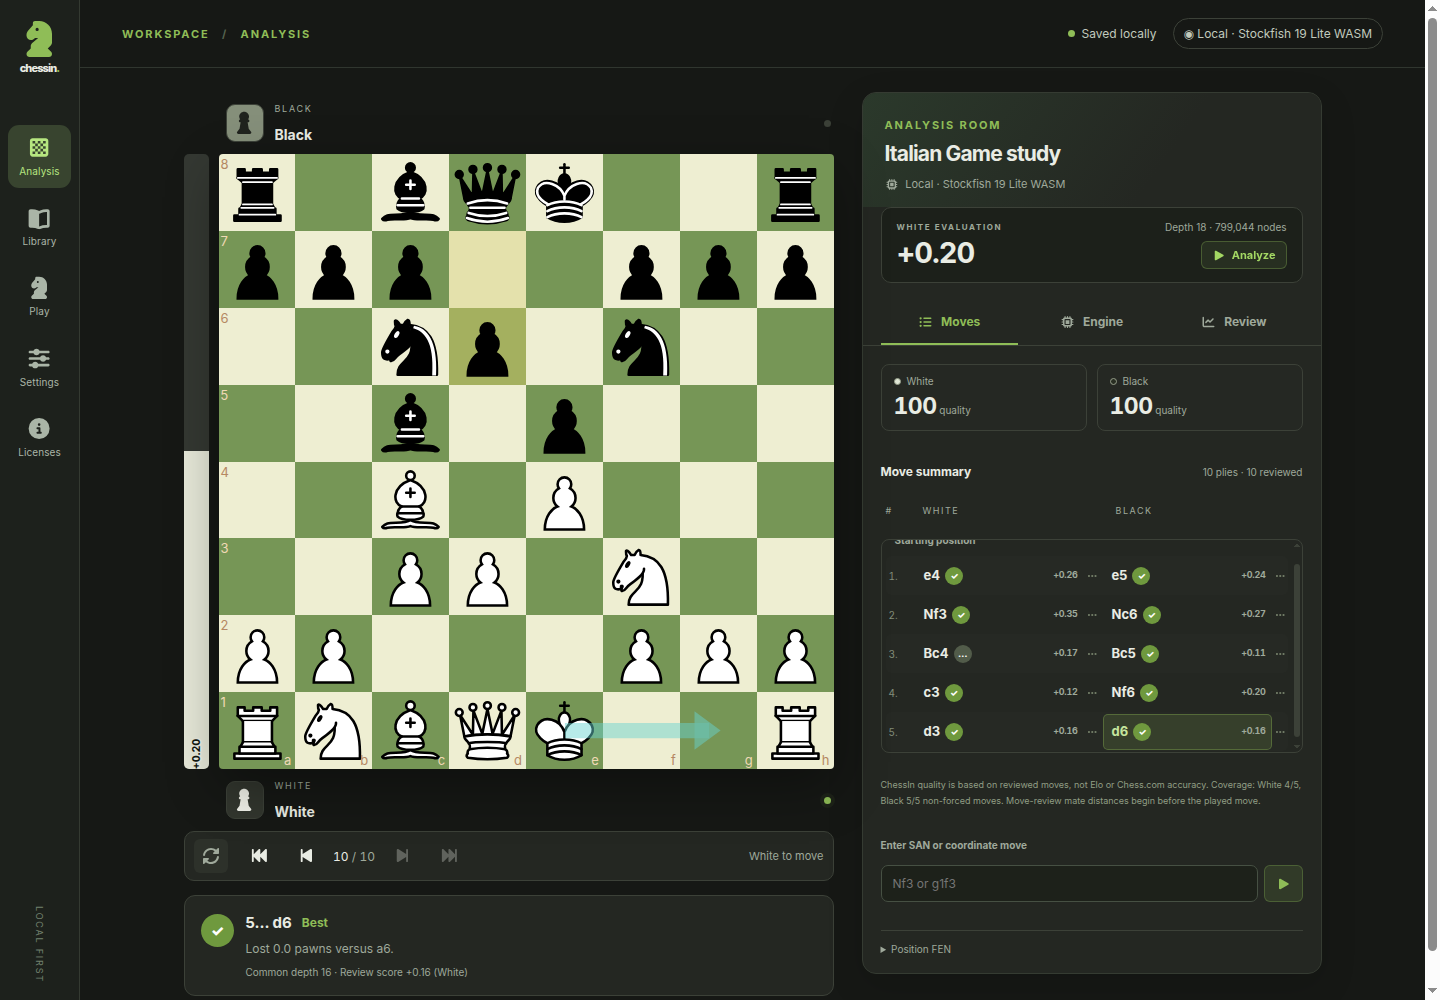
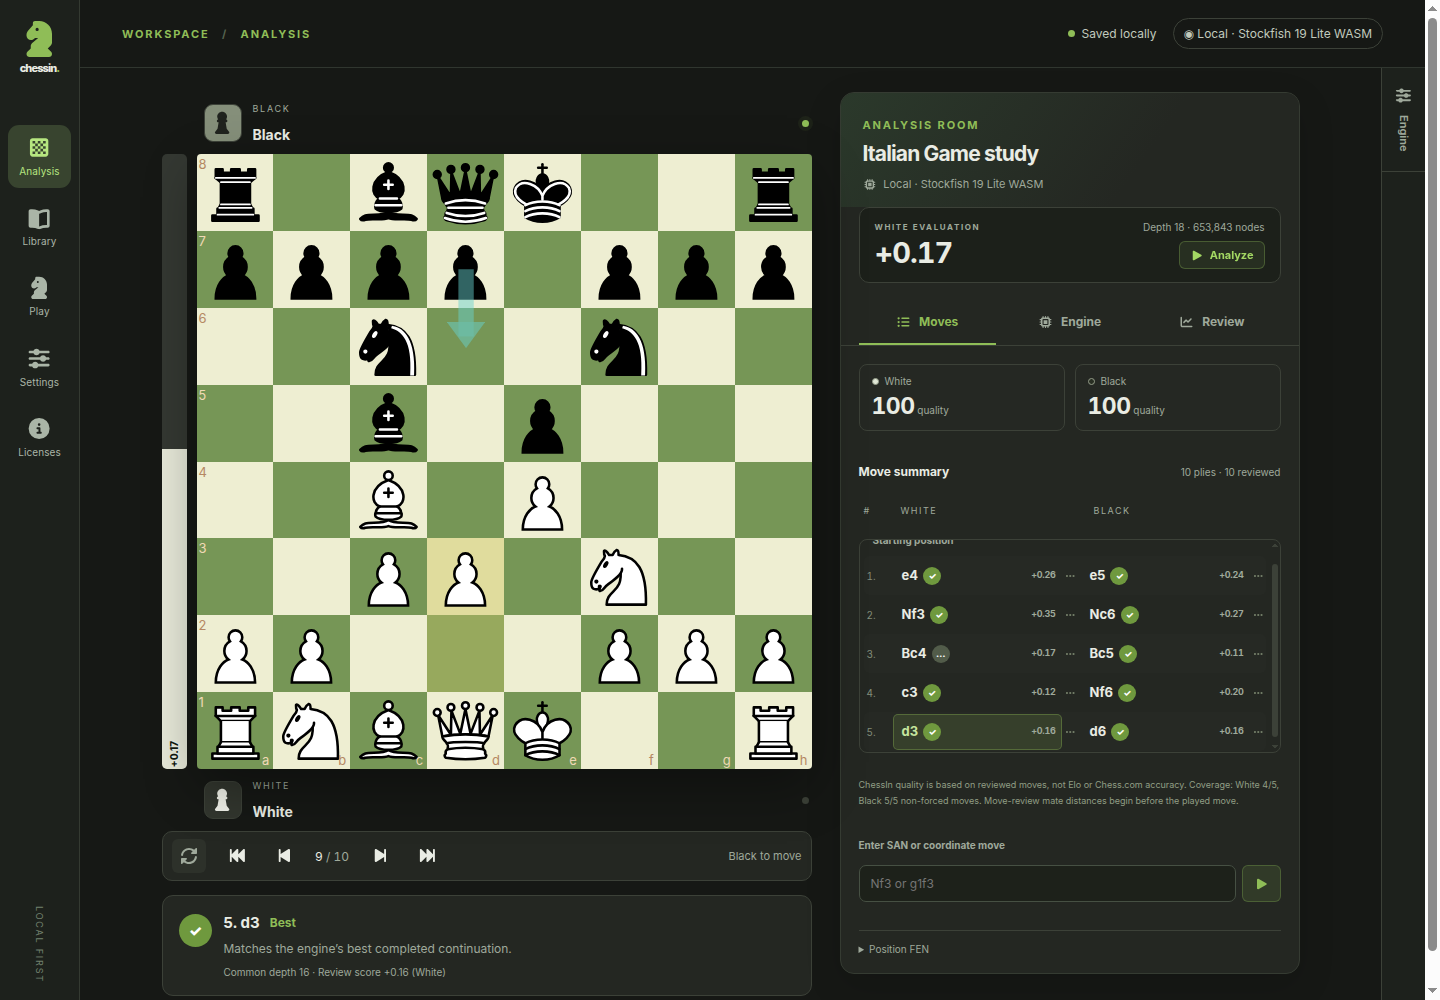
Move board engine preferences into a right-edge quick sidebar

diff --git a/apps/web/src/engine/QuickEngineSettings.tsx b/apps/web/src/engine/QuickEngineSettings.tsx
@@ -1,0 +1,60 @@
+import { useEffect, useId, useRef, useState } from 'react'
+import { FontAwesomeIcon } from '@fortawesome/react-fontawesome'
+import { faSliders, faXmark, faArrowRight, faMicrochip } from '@fortawesome/free-solid-svg-icons'
+import { useEngine } from './EngineContext'
+import './quick-engine.css'
+
+const depths = [8, 10, 12, 16, 18, 20, 24, 30]
+const times = [500, 1000, 1500, 3000, 5000, 10000, 30000]
+
+export function QuickEngineSettings({ disabled, onOpenSettings }: { disabled: boolean; onOpenSettings: () => void }) {
+  const engine = useEngine()
+  const id = useId()
+  const [open, setOpen] = useState(false)
+  const trigger = useRef<HTMLButtonElement>(null)
+  const close = useRef<HTMLButtonElement>(null)
+  const multiPv = engine.descriptor?.options.find(option => option.name.toLowerCase() === 'multipv')
+  const minLines = multiPv?.type === 'spin' ? Math.max(1, multiPv.min ?? 1) : 1
+  const maxLines = multiPv?.type === 'spin' ? Math.min(5, multiPv.max ?? 5, engine.remoteLimits?.maxMultiPv ?? 5) : 1
+
+  useEffect(() => {
+    if (!open) return
+    close.current?.focus({ preventScroll: true })
+    const escape = (event: KeyboardEvent) => {
+      if (event.key !== 'Escape') return
+      setOpen(false)
+      trigger.current?.focus({ preventScroll: true })
+    }
+    window.addEventListener('keydown', escape)
+    return () => window.removeEventListener('keydown', escape)
+  }, [open])
+
+  function setBound(key: 'depth' | 'moveTimeMs', raw: string, min: number, max: number) {
+    if (engine.limit.kind !== 'bounded') return
+    const value = raw === '' ? undefined : Number(raw)
+    if (value !== undefined && (!Number.isInteger(value) || value < min || value > max)) return
+    const next = { ...engine.limit, [key]: value }
+    if (next.depth === undefined && next.moveTimeMs === undefined && next.nodes === undefined) return
+    engine.setLimit(next)
+  }
+
+  return <aside className="quick-engine-rail" aria-label="Board quick settings">
+    <button ref={trigger} className="quick-engine-tab" aria-label="Quick engine settings" aria-expanded={open} aria-controls={id} onClick={() => setOpen(!open)}><FontAwesomeIcon icon={faSliders} /><span>Engine</span></button>
+    {open && <section id={id} className="quick-engine-drawer" aria-labelledby={`${id}-heading`}>
+      <header><div><span className="eyebrow">BOARD TOOLS</span><h2 id={`${id}-heading`}>Quick settings</h2></div><button ref={close} aria-label="Close quick settings" onClick={() => { setOpen(false); trigger.current?.focus() }}><FontAwesomeIcon icon={faXmark} /></button></header>
+      <div className="quick-engine-identity"><FontAwesomeIcon icon={faMicrochip} /><div><strong>{engine.descriptor?.name ?? 'Engine not initialized'}</strong><span>{engine.provider === 'local' ? 'On-device analysis' : 'Connected remote provider'} · Full strength</span></div></div>
+      <fieldset disabled={disabled}>
+        <legend>Analysis search</legend>
+        <label>Search mode<select value={engine.limit.kind} onChange={event => engine.setLimit(event.target.value === 'infinite' ? { kind: 'infinite' } : { kind: 'bounded', depth: 18, moveTimeMs: 5000 })}><option value="bounded">Depth / time limit</option><option value="infinite">Until I stop it</option>{engine.limit.kind === 'clock' && <option value="clock">Game clock</option>}</select></label>
+        {engine.limit.kind === 'bounded' && <>
+          <label>Depth<select value={engine.limit.depth ?? ''} onChange={event => setBound('depth', event.target.value, 1, 60)}><option value="" disabled={engine.limit.moveTimeMs === undefined && engine.limit.nodes === undefined}>No depth limit</option>{depths.map(depth => <option key={depth} value={depth}>{depth} plies</option>)}{engine.limit.depth !== undefined && !depths.includes(engine.limit.depth) && <option value={engine.limit.depth}>{engine.limit.depth} plies · custom</option>}</select></label>
+          <label>Time limit<select value={engine.limit.moveTimeMs ?? ''} onChange={event => setBound('moveTimeMs', event.target.value, 100, 300000)}><option value="" disabled={engine.limit.depth === undefined && engine.limit.nodes === undefined}>No time limit</option>{times.map(time => <option key={time} value={time}>{time / 1000} seconds</option>)}{engine.limit.moveTimeMs !== undefined && !times.includes(engine.limit.moveTimeMs) && <option value={engine.limit.moveTimeMs}>{engine.limit.moveTimeMs / 1000} seconds · custom</option>}</select><small>Stops at the first reached limit.</small></label>
+          {engine.limit.nodes !== undefined && <p className="quick-engine-note">Node limit: {engine.limit.nodes.toLocaleString()}. Edit it in full Settings.</p>}
+        </>}
+        {multiPv?.type === 'spin' && maxLines >= minLines && <label>Engine lines<select value={engine.settings.multiPv ?? minLines} disabled={minLines === maxLines} onChange={event => engine.setSettings({ ...engine.settings, multiPv: Number(event.target.value) })}>{Array.from({ length: maxLines - minLines + 1 }, (_, index) => minLines + index).map(count => <option key={count} value={count}>{count} {count === 1 ? 'line' : 'lines'}</option>)}</select></label>}
+      </fieldset>
+      <p className="quick-engine-note">{disabled ? 'Review has its own search settings. Switch to Moves or Engine to change analysis preferences.' : engine.limit.kind === 'infinite' ? 'Continuous analysis uses more CPU and battery. Stop it from the board.' : 'Changes apply to the next search, or restart analysis if it is running.'}</p>
+      <footer><p>Downloads, hardware and connections live in Settings—not on your board.</p><button onClick={onOpenSettings}>Open full Settings <FontAwesomeIcon icon={faArrowRight} /></button></footer>
+    </section>}
+  </aside>
+}

diff --git a/apps/web/src/features/analysis/AnalysisPage.tsx b/apps/web/src/features/analysis/AnalysisPage.tsx
@@ -1,12 +1,12 @@
 import { useEffect, useId, useMemo, useRef, useState, type ReactNode } from 'react'
 import { FontAwesomeIcon } from '@fortawesome/react-fontawesome'
-import { faBackwardFast, faBackwardStep, faForwardStep, faForwardFast, faRotate, faListUl, faMicrochip, faChartLine, faPlay, faStop, faSliders, faEllipsis, faArrowUp, faTrashCan, faChessPawn, faCopy } from '@fortawesome/free-solid-svg-icons'
+import { faBackwardFast, faBackwardStep, faForwardStep, faForwardFast, faRotate, faListUl, faMicrochip, faChartLine, faPlay, faStop, faEllipsis, faArrowUp, faTrashCan, faChessPawn, faCopy } from '@fortawesome/free-solid-svg-icons'
 import { appendMove, deleteVariation, exportFen, getPosition, promoteVariation, reconstruct, selectNode, type GameDocument, type GameNode, type PositionSpec } from '@chessin/core/game'
 import type { EngineEvent, EngineScore } from '@chessin/core/engine'
 import { Chess } from 'chess.js'
 import { AnalysisBoard } from '../../components/AnalysisBoard'
 import { useEngine } from '../../engine/EngineContext'
-import { EngineSettingsPanel } from '../../engine/EngineSettingsPanel'
+import { QuickEngineSettings } from '../../engine/QuickEngineSettings'
 import { mainlineNodes, reviewSummary, type ReviewMove } from '@chessin/core/review'
 import { moveSymbols } from '../../components/move-quality'
 import './analysis.css'
@@ -20,6 +20,7 @@ const analysisTabs = [
 export interface AnalysisPageProps {
   game: GameDocument
   onChange: (game: GameDocument) => void
+  onOpenSettings: () => void
   reviewPanel?: ReactNode
   grades?: Record<string, ReviewMove>
   initialPane?: 'moves' | 'engine' | 'review'
@@ -63,7 +64,7 @@ function captured(chess: Chess, rootFen: string): { white: string; black: string
   return { white, black, advantage: value('b') - value('w') }
 }
 
-export function AnalysisPage({ game, onChange, reviewPanel, grades, initialPane = 'moves' }: AnalysisPageProps) {
+export function AnalysisPage({ game, onChange, onOpenSettings, reviewPanel, grades, initialPane = 'moves' }: AnalysisPageProps) {
   const chess = useMemo(() => reconstruct(game), [game])
   const position = useMemo(() => getPosition(game), [game])
   const engine = useEngine()
@@ -241,7 +242,7 @@ export function AnalysisPage({ game, onChange, reviewPanel, grades, initialPane 
     return rows
   }
 
-  return <section className="analysis-layout" aria-label="Analysis workspace">
+  return <section className="analysis-layout has-quick-settings" aria-label="Analysis workspace">
     <div className="board-column">
       <div className="player-strip"><span className={`player-avatar piece-${orientation === 'white' ? 'black' : 'white'}`}><FontAwesomeIcon icon={faChessPawn} /></span><div><span className="player-side">{orientation === 'white' ? 'BLACK' : 'WHITE'}</span><strong>{topName}</strong><span className="material">{topCaptures}{topAdvantage > 0 ? ` +${topAdvantage}` : ''}</span></div><span className={`turn-indicator ${(chess.turn() === 'b') === (orientation === 'white') ? 'is-turn' : ''}`} /></div>
       <div className="board-and-eval">
@@ -291,11 +292,11 @@ export function AnalysisPage({ game, onChange, reviewPanel, grades, initialPane 
         <p className="analysis-engine-status" role="status">{engineMessage}</p>
         {Object.values(lines).sort((a, b) => a.multiPv - b.multiPv).map(info => <div className="pv-line" key={info.multiPv}><span className="pv-rank">{info.multiPv}</span><div className="pv-score"><strong>{scoreLabel(whiteScore(info.score, chess.turn()))}</strong><small>depth {info.depth}</small></div><span>{pvSan(position, info.pv) || 'No legal continuation yet'}</span></div>)}
         {!Object.keys(lines).length && <div className="analysis-empty-moves"><FontAwesomeIcon icon={faMicrochip} /><strong>Find the strongest continuation.</strong><p>Start analysis above for real engine lines, evaluation and best-move arrows.</p></div>}
-        <details className="analysis-engine-config"><summary><FontAwesomeIcon icon={faSliders} /> Engine settings</summary><EngineSettingsPanel /></details>
         <p className="quality-disclaimer">Scores use White’s perspective. Mate distances and score bounds are preserved.</p>
       </div>}
       {pane === 'review' && <div className="pane-content" role="tabpanel" id={`${panelId}-review-panel`} aria-labelledby={`${panelId}-review-tab`}>{reviewPanel || <div className="empty-pane"><strong>Game review</strong><p>Review a game to understand each decision.</p></div>}</div>}
       {message && <p className="analysis-message" role="status">{message}</p>}
     </aside>
+    <QuickEngineSettings disabled={pane === 'review'} onOpenSettings={onOpenSettings} />
   </section>
 }

diff --git a/apps/web/src/engine/quick-engine.css b/apps/web/src/engine/quick-engine.css
@@ -1,0 +1,204 @@
+.quick-engine-rail {
+  position: fixed;
+  right: 0;
+  top: 68px;
+  bottom: 0;
+  width: 44px;
+  background: #1d211c;
+  border-left: 1px solid var(--line);
+  z-index: 15;
+}
+.quick-engine-tab {
+  display: flex;
+  align-items: center;
+  gap: 12px;
+  writing-mode: vertical-rl;
+  width: 100%;
+  padding: 20px 10px;
+  background: transparent;
+  color: var(--muted);
+  border: 0;
+  border-bottom: 1px solid var(--line);
+  font-family: inherit;
+  font-size: 11px;
+  font-weight: 600;
+  cursor: pointer;
+}
+.quick-engine-tab svg {
+  font-size: 15px;
+}
+.quick-engine-tab[aria-expanded="true"] {
+  background: #34442b;
+  color: var(--green);
+}
+.quick-engine-drawer {
+  position: absolute;
+  right: 43px;
+  top: 0;
+  bottom: 0;
+  width: 300px;
+  overflow-y: auto;
+  overscroll-behavior: contain;
+  background: var(--panel);
+  border-left: 1px solid var(--line);
+  box-shadow: -16px 0 35px #0003;
+  padding: 22px;
+  display: flex;
+  flex-direction: column;
+  gap: 22px;
+  scrollbar-width: thin;
+}
+.quick-engine-drawer header {
+  display: flex;
+  align-items: center;
+  justify-content: space-between;
+  gap: 8px;
+}
+.quick-engine-drawer h2 {
+  font-size: 20px;
+  margin: 6px 0 0;
+  letter-spacing: -0.04em;
+}
+.quick-engine-drawer header button {
+  background: transparent;
+  border: 0;
+  color: var(--muted);
+  padding: 9px;
+  cursor: pointer;
+}
+.quick-engine-identity {
+  display: flex;
+  gap: 10px;
+  align-items: center;
+  padding: 13px 0;
+  border-block: 1px solid var(--line);
+  color: var(--green);
+}
+.quick-engine-identity > div {
+  display: grid;
+  gap: 5px;
+  min-width: 0;
+}
+.quick-engine-identity strong {
+  font-size: 12px;
+  color: var(--ink);
+  overflow-wrap: anywhere;
+}
+.quick-engine-identity span {
+  font-size: 10px;
+  color: var(--muted);
+}
+.quick-engine-drawer fieldset {
+  border: 0;
+  padding: 0;
+  margin: 0;
+  display: grid;
+  gap: 17px;
+  min-width: 0;
+}
+.quick-engine-drawer legend {
+  font-size: 10px;
+  text-transform: uppercase;
+  letter-spacing: 0.12em;
+  color: var(--muted);
+  padding: 0 0 15px;
+}
+.quick-engine-drawer label {
+  display: grid;
+  gap: 7px;
+  font-size: 12px;
+  color: var(--ink);
+}
+.quick-engine-drawer input,
+.quick-engine-drawer select {
+  width: 100%;
+  min-width: 0;
+  background: #1a1f19;
+  border: 1px solid #465043;
+  color: var(--ink);
+  border-radius: 7px;
+  padding: 10px;
+  font: inherit;
+  color-scheme: dark;
+}
+.quick-engine-drawer small,
+.quick-engine-note,
+.quick-engine-drawer footer p {
+  color: var(--muted);
+  font-size: 10px;
+  line-height: 1.65;
+  margin: 0;
+}
+.quick-engine-drawer fieldset:disabled {
+  opacity: 0.5;
+}
+.quick-engine-drawer footer {
+  margin-top: auto;
+  border-top: 1px solid var(--line);
+  padding-top: 17px;
+  display: grid;
+  gap: 12px;
+}
+.quick-engine-drawer footer button {
+  display: flex;
+  align-items: center;
+  justify-content: space-between;
+  border: 1px solid #60784a;
+  background: #34442b;
+  color: #c7e6a4;
+  padding: 11px;
+  border-radius: 7px;
+  font-size: 12px;
+  cursor: pointer;
+}
+.quick-engine-rail button:focus-visible,
+.quick-engine-rail input:focus-visible,
+.quick-engine-rail select:focus-visible {
+  outline: 2px solid var(--green);
+  outline-offset: 2px;
+}
+.analysis-layout.has-quick-settings {
+  width: calc(100% - 44px);
+  margin-right: 44px;
+}
+@media (min-width: 850px) and (max-width: 1099px) {
+  .analysis-layout.has-quick-settings {
+    grid-template-columns: minmax(280px, 1fr) minmax(290px, 360px);
+    gap: 16px;
+    padding-inline: 16px;
+  }
+}
+@media (max-width: 849px) {
+  .analysis-layout.has-quick-settings {
+    width: calc(100% - 32px);
+    margin-right: 32px;
+  }
+  .quick-engine-rail {
+    width: 32px;
+  }
+  .quick-engine-tab {
+    padding: 17px 6px;
+    font-size: 10px;
+  }
+  .quick-engine-drawer {
+    right: 31px;
+    width: min(300px, calc(100vw - 32px));
+    padding: 19px;
+  }
+}
+@media (max-width: 719px) {
+  .quick-engine-rail {
+    top: 53px;
+    bottom: 65px;
+  }
+  .quick-engine-drawer {
+    gap: 17px;
+  }
+  .quick-engine-drawer header button {
+    padding: 10px;
+  }
+  .quick-engine-drawer input,
+  .quick-engine-drawer select {
+    font-size: 16px;
+  }
+}

diff --git a/apps/web/src/App.tsx b/apps/web/src/App.tsx
@@ -157,7 +157,7 @@ export function App() {
     <main className="main-content">
       <div className="topbar"><span className="mobile-brand"><FontAwesomeIcon icon={faChessKnight} aria-hidden="true" /> chessin<span>.</span></span><span className="topbar-path">WORKSPACE <span>/</span> {page.toUpperCase()}</span><div className="topbar-right">{page !== 'play' && <span className={`save-indicator ${saveState}`} role="status"><span className="status-dot" />{saveState === 'saving' ? 'Saving…' : saveState === 'unsaved' ? 'Unsaved' : 'Saved locally'}</span>}<span className="provider-badge">{engine.provider === 'remote' ? '↗ Remote' : '◉ Local'} · {engine.descriptor?.name || engine.status}</span></div></div>
       {warning && <div className="storage-warning" role="alert"><div><strong>{saveState === 'unsaved' ? 'Storage needs attention' : 'Library notice'}</strong><span>{warning}</span></div><div className="warning-actions">{game && <button onClick={() => void exportCurrent()}>Export current PGN</button>}<button onClick={() => setWarning('')} aria-label="Dismiss notice">×</button></div></div>}
-      {page === 'analysis' && (game ? <AnalysisPage key={game.id} game={game} onChange={saveChanges} initialPane={reviewFirst ? 'review' : 'moves'} grades={grades} reviewPanel={<ReviewPanel game={game} onSelect={id => saveChanges(selectNode(game, id))} onGrades={setGrades} />} /> : <div className="welcome-analysis"><span className="eyebrow">ANALYSIS BOARD</span><h1>Ready when you are.</h1><p>Open a game or start from the initial position.</p><div className="hero-actions"><button className="primary-button" onClick={() => add(createGame())}>New analysis</button><button onClick={() => void navigate('library')}>Browse library</button></div></div>)}
+      {page === 'analysis' && (game ? <AnalysisPage key={game.id} game={game} onChange={saveChanges} onOpenSettings={() => void navigate('settings')} initialPane={reviewFirst ? 'review' : 'moves'} grades={grades} reviewPanel={<ReviewPanel game={game} onSelect={id => saveChanges(selectNode(game, id))} onGrades={setGrades} />} /> : <div className="welcome-analysis"><span className="eyebrow">ANALYSIS BOARD</span><h1>Ready when you are.</h1><p>Open a game or start from the initial position.</p><div className="hero-actions"><button className="primary-button" onClick={() => add(createGame())}>New analysis</button><button onClick={() => void navigate('library')}>Browse library</button></div></div>)}
       {page === 'play' && <PlayPage game={game?.play ? game : undefined} onChange={playChanged} onReview={finishAndReview} onActiveChange={setPlayActive} onSuspendReady={registerSuspend} />}
       {page === 'library' && <LibraryPage games={games} onOpen={open} onImport={importGames} onFen={fen => add(importFen(fen))} onNew={() => add(createGame())} onDelete={remove} onRename={rename} onExport={exportLibrary} onError={setWarning} />}
       {page === 'settings' && <section className="settings-page"><header className="settings-page-heading"><div><span className="eyebrow">YOUR WORKSPACE</span><h1>Settings</h1><p>Your engine. Your preferences. Always in your control.</p></div><span className="settings-local-note">Local first. No account required.</span></header><EngineSettingsPanel /></section>}

diff --git a/apps/web/src/features/analysis/analysis.css b/apps/web/src/features/analysis/analysis.css
@@ -745,24 +745,6 @@
 .analysis-layout .pv-line > span:last-child {
   overflow-wrap: anywhere;
 }
-.analysis-layout .analysis-engine-config {
-  margin-top: 17px;
-  border-top: 1px solid var(--line);
-  padding-top: 14px;
-}
-.analysis-layout .analysis-engine-config > summary {
-  font-size: 11px;
-  color: var(--muted);
-  cursor: pointer;
-}
-.analysis-layout .analysis-engine-config > summary svg {
-  margin-right: 6px;
-}
-.analysis-layout .analysis-engine-config .engine-settings {
-  margin-top: 15px;
-  padding: 0;
-  border: 0;
-}
 .analysis-layout .analysis-message {
   font-size: 11px;
   color: var(--amber);

diff --git a/README.md b/README.md
@@ -47,6 +47,8 @@ Drag a piece, tap source and target, or enter SAN/UCI in the labeled move input.
 
 The move list keeps the selected move visible without scrolling the whole page. Move-review scores describe the played continuation from its **parent** position; their mate distances begin before that move. They are labeled separately from live position evaluations. Terminal board evaluations follow chess rules, and changing a game tree or engine configuration clears incompatible move evidence.
 
+The **Engine** tab on the far-right screen edge opens quick analysis settings: depth/time presets, continuous search and the engine's supported line count. It stays separate from the Moves/Engine/Review content tabs and closes with Escape. Downloads, hardware limits, connection credentials and app installation remain on the full Settings page, reached through **Open full Settings**. Quick analysis controls are disabled in Review, which has its own search settings.
+
 IndexedDB stores games, preferences and reviews. Saves await transaction completion; simultaneous edits in another tab become separate copies rather than overwriting the other version. If storage is blocked or full, the current board remains in memory and shows **Unsaved** with PGN export. Browser storage is not a backup. PGN export preserves the tree; FEN copy reflects the selected position.
 
 </details>
